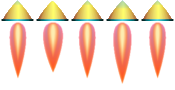
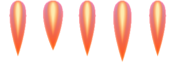
LevelManager implemented

diff --git a/lib/main.dart b/lib/main.dart
@@ -236,6 +236,8 @@ class AlienAttack extends FlameGame with KeyboardEvents, HasCollisionDetection {
     starsCollected = 0;
     lifes = 3;
 
+    // levelManager.startLevel(1);
+
     clear();
 
     camera.viewfinder.anchor = Anchor.topLeft;
@@ -413,7 +415,7 @@ class PlayerExplosion extends SpriteAnimationComponent with HasGameReference<Ali
 }
 
 class Bullet extends SpriteAnimationComponent with HasGameReference<AlienAttack>, CollisionCallbacks {
-  Bullet() : super(size: Vector2(10, 25), anchor: Anchor.center);
+  Bullet() : super(size: Vector2(35, 40), anchor: Anchor.center);
 
   final speed = 400;
 
@@ -427,7 +429,7 @@ class Bullet extends SpriteAnimationComponent with HasGameReference<AlienAttack>
         amount: 5,
         loop: true,
         stepTime: .1,
-        textureSize: Vector2(35, 90),
+        textureSize: Vector2(141, 177),
       ),
     );
 
